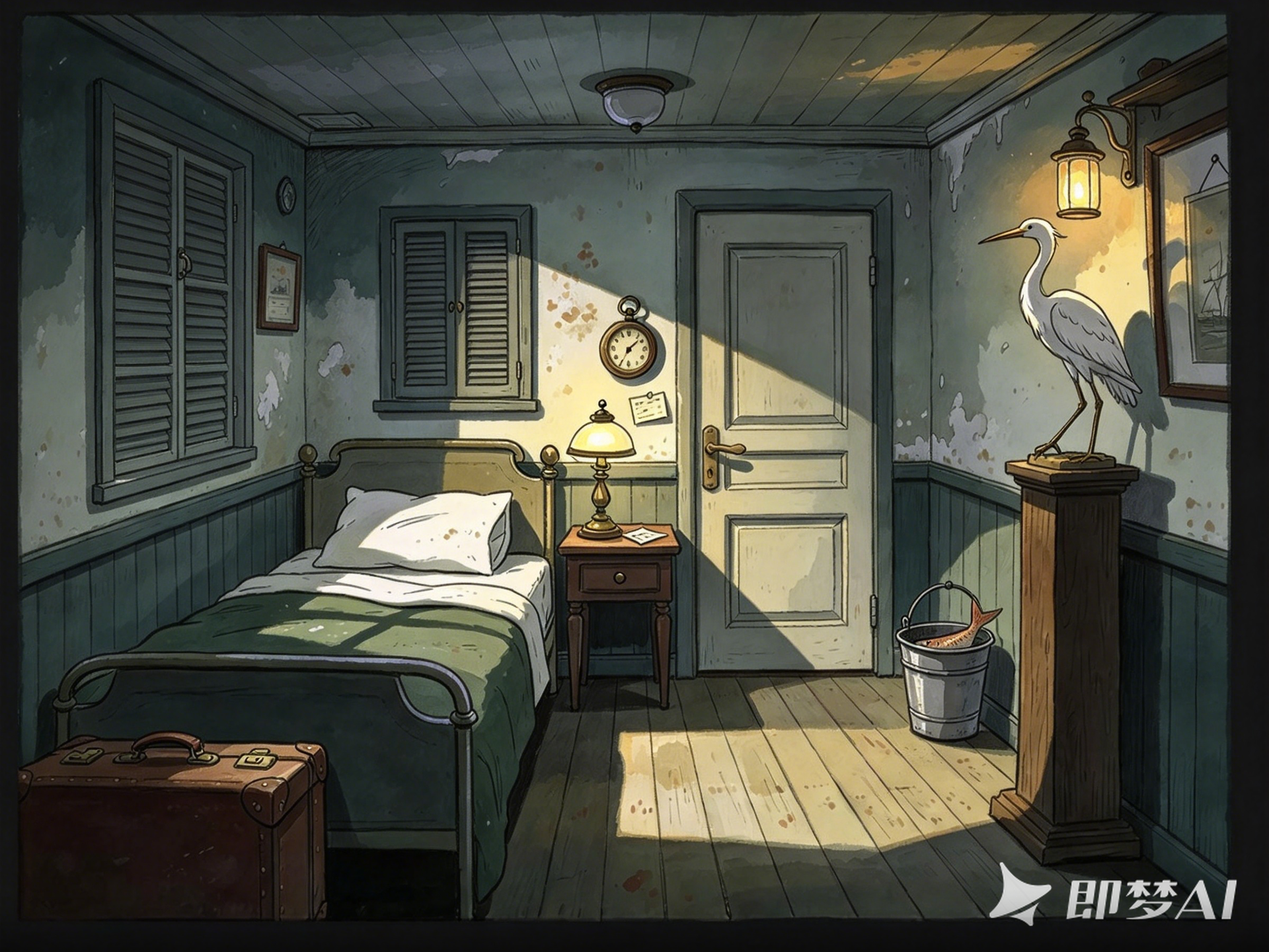
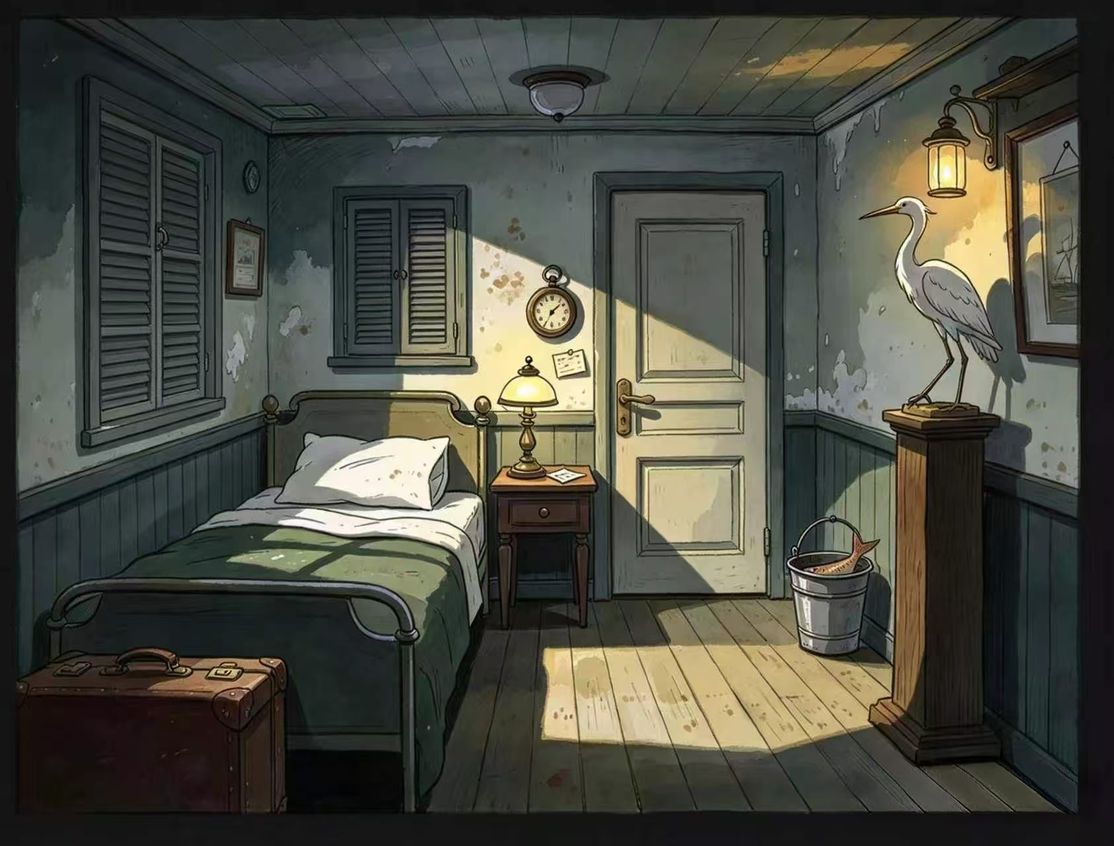
feat: 替换四张无水印场景图

diff --git a/更新日志.md b/更新日志.md
@@ -159,7 +159,8 @@
 - 开窗后的船舱增加床头柜点击区域，可切换到床头柜近景；左上角箭头返回原船舱状态。
 - 床头柜近景的纸条可点击，显示“Ms.Yanqiu于三周前失踪。请继承人于盐月朔日前抵达盐月旅馆。”，点击任意处关闭。
 - 全局移除底部提示框和左上角章节标签；仅在初始船舱左侧窗户显示半透明气泡“点击以打开窗户”，开窗后消失。
-- 移除右下角硬边黑色遮挡块，改为柔和的角落渐暗，避免遮挡视线。
+- 移除右下角硬边黑色遮挡块，避免遮挡视线。
+- 替换四张无水印背景：船舱关窗、开窗、船行驶、船靠岸；移除临时角落渐暗。
 - 参考 v0.3 文档重写序章，逐步收敛到“上岸与入门”四个动作。
 - 序章 Word 稿更新到 v0.8：床上醒来 → 开窗看海 → 找硬币付船费 → 时间锁进旅馆。
 - 第一章从“101 谜题优先稿”调整为“113 服务叙事”。
